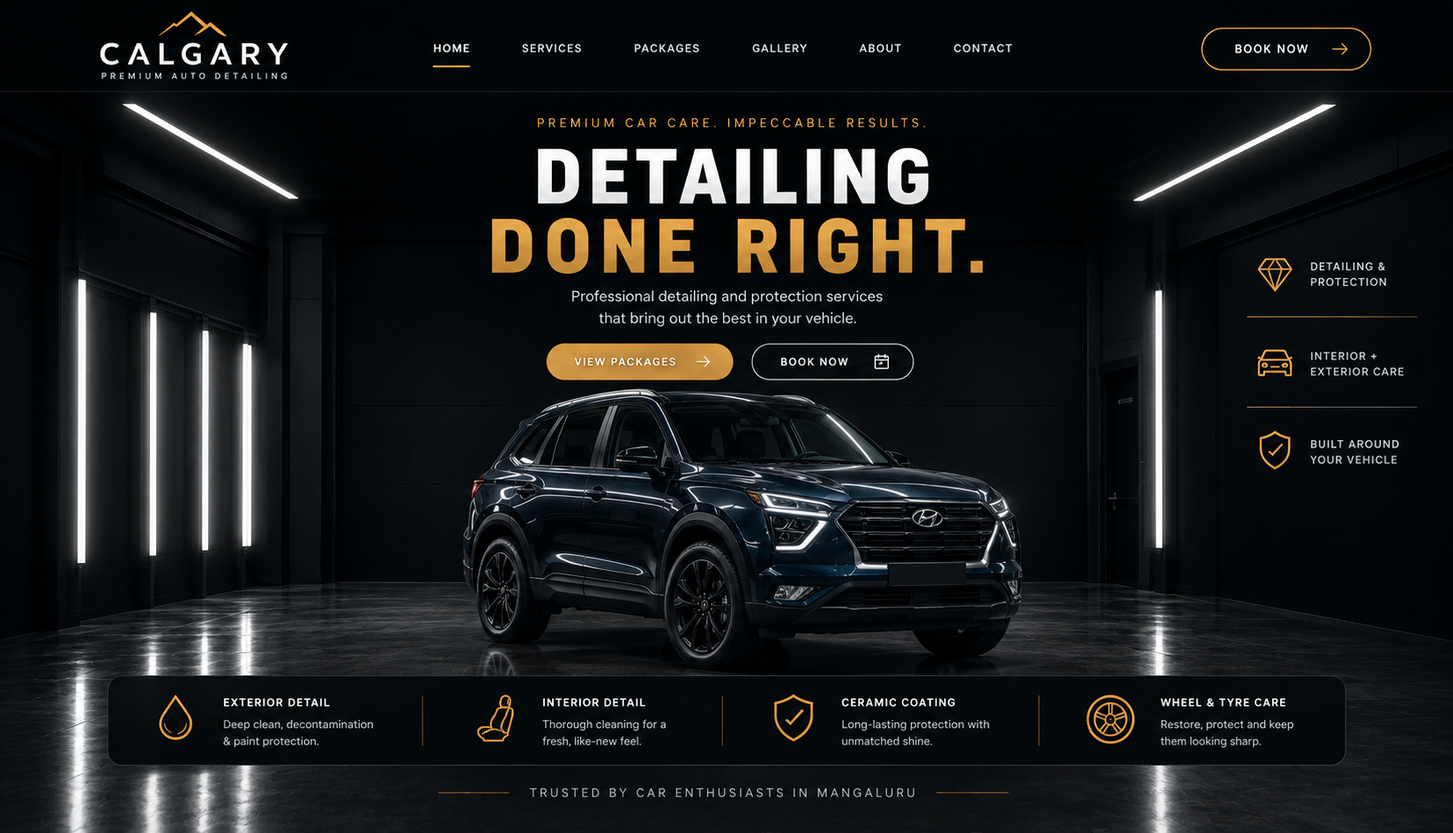
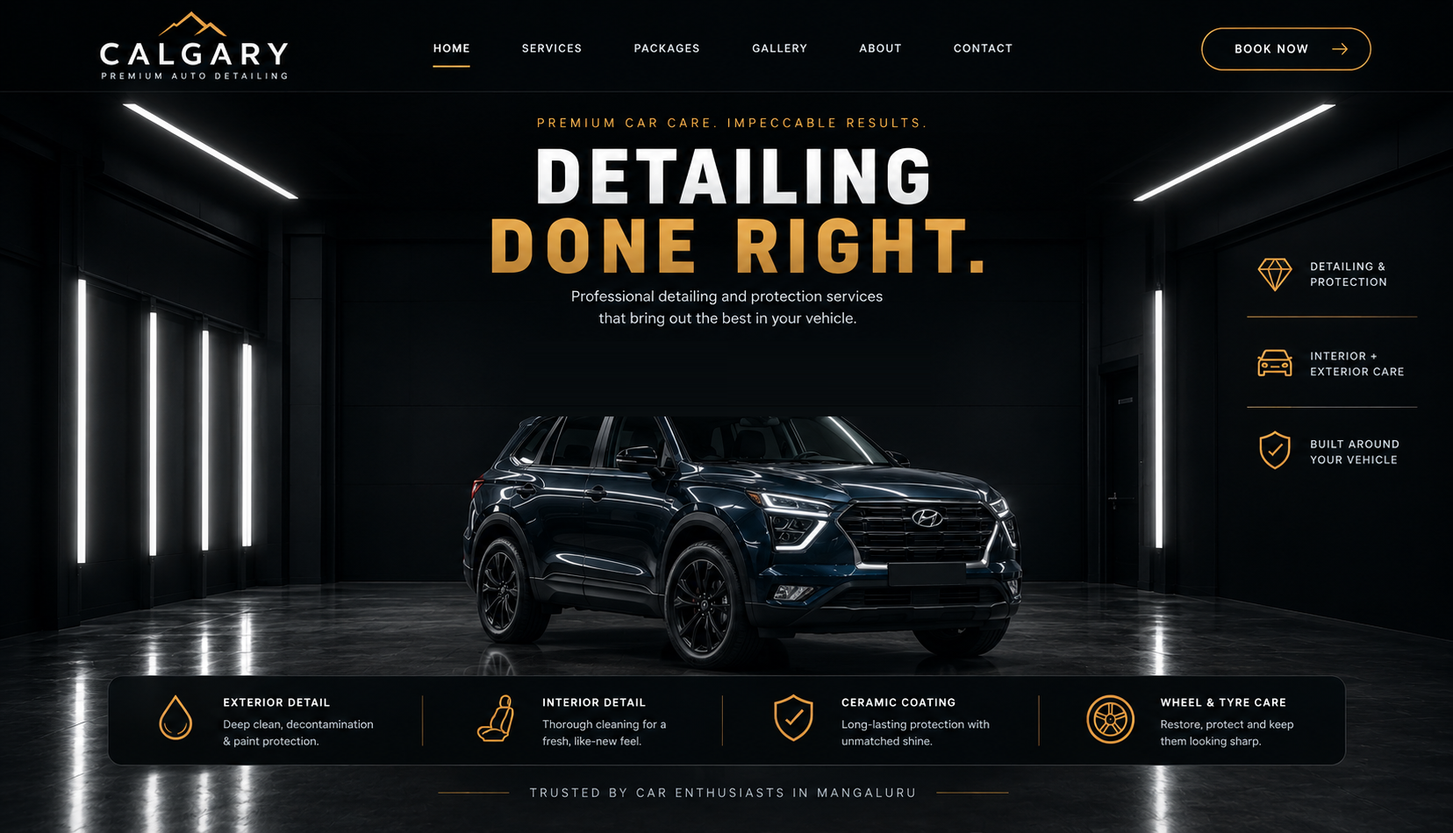
Update Calgary website

Changed region(s): [[0.3696, 0.3968, 0.6159, 0.5189]]

diff --git a/src/components/HeroSection.tsx b/src/components/HeroSection.tsx
@@ -1,5 +1,5 @@
 import React from 'react';
-import { Clock } from 'lucide-react';
+import { ArrowRight, CalendarDays, Clock } from 'lucide-react';
 import { getStoredInquiries } from '../services/inquiryAutomation';
 
 interface HeroSectionProps {
@@ -45,9 +45,8 @@ export const HeroSection: React.FC<HeroSectionProps> = ({ onOpenBooking, onOpenT
     >
       {/* =========================================================================
           HERO STUDIO: PIXEL-PERFECT REPLICA MATCHING REFERENCE IMAGE
-          Rendered cleanly across all screen sizes without any artificial text layer on top.
-          Includes fully functional interactive hotspots, hover feedback, accessibility,
-          and direct integrations with booking flows.
+          Includes image-aligned interactive hotspots and native CTA buttons.
+          Keyboard focus stays visible without mouse hover outlines or shadow effects.
          ========================================================================= */}
       <div className="relative w-full max-w-[1656px] mx-auto aspect-[1656/950] overflow-hidden">
         {/* Reference Visual Design */}
@@ -86,7 +85,7 @@ export const HeroSection: React.FC<HeroSectionProps> = ({ onOpenBooking, onOpenT
           type="button"
           onClick={scrollToTop}
           aria-label="Calgary Premium Auto Detailing Home"
-          className="absolute left-[6.04%] top-[1.8%] w-[14.5%] h-[5.6%] cursor-pointer rounded-lg hover:bg-white/5 transition-colors focus:outline-none focus:ring-1 focus:ring-[#C59B4E]"
+          className="absolute left-[6.04%] top-[1.8%] w-[14.5%] h-[5.6%] cursor-pointer rounded-lg hover:bg-white/5 transition-colors focus-visible:outline-none focus-visible:ring-1 focus-visible:ring-[#C59B4E]"
           title="Calgary Premium Auto Detailing"
         />
 
@@ -95,42 +94,42 @@ export const HeroSection: React.FC<HeroSectionProps> = ({ onOpenBooking, onOpenT
           type="button"
           onClick={scrollToTop}
           aria-label="Navigate to Home"
-          className="absolute left-[29.59%] top-[3.2%] w-[3.5%] h-[3.8%] cursor-pointer rounded hover:bg-white/10 transition-colors focus:outline-none"
+          className="absolute left-[29.59%] top-[3.2%] w-[3.5%] h-[3.8%] cursor-pointer rounded focus-visible:outline-none focus-visible:ring-1 focus-visible:ring-[#C59B4E]"
           title="Home"
         />
         <button
           type="button"
           onClick={() => scrollTo('services')}
           aria-label="Navigate to Services"
-          className="absolute left-[35.0%] top-[3.2%] w-[5.0%] h-[3.8%] cursor-pointer rounded hover:bg-white/10 transition-colors focus:outline-none"
+          className="absolute left-[35.0%] top-[3.2%] w-[5.0%] h-[3.8%] cursor-pointer rounded focus-visible:outline-none focus-visible:ring-1 focus-visible:ring-[#C59B4E]"
           title="Services"
         />
         <button
           type="button"
           onClick={() => scrollTo('services')}
           aria-label="Navigate to Packages"
-          className="absolute left-[42.5%] top-[3.2%] w-[5.5%] h-[3.8%] cursor-pointer rounded hover:bg-white/10 transition-colors focus:outline-none"
+          className="absolute left-[42.5%] top-[3.2%] w-[5.5%] h-[3.8%] cursor-pointer rounded focus-visible:outline-none focus-visible:ring-1 focus-visible:ring-[#C59B4E]"
           title="Packages"
         />
         <button
           type="button"
           onClick={() => scrollTo('gallery')}
           aria-label="Navigate to Gallery"
-          className="absolute left-[50.8%] top-[3.2%] w-[4.8%] h-[3.8%] cursor-pointer rounded hover:bg-white/10 transition-colors focus:outline-none"
+          className="absolute left-[50.8%] top-[3.2%] w-[4.8%] h-[3.8%] cursor-pointer rounded focus-visible:outline-none focus-visible:ring-1 focus-visible:ring-[#C59B4E]"
           title="Gallery"
         />
         <button
           type="button"
           onClick={() => scrollTo('about')}
           aria-label="Navigate to About"
-          className="absolute left-[58.0%] top-[3.2%] w-[4.0%] h-[3.8%] cursor-pointer rounded hover:bg-white/10 transition-colors focus:outline-none"
+          className="absolute left-[58.0%] top-[3.2%] w-[4.0%] h-[3.8%] cursor-pointer rounded focus-visible:outline-none focus-visible:ring-1 focus-visible:ring-[#C59B4E]"
           title="About"
         />
         <button
           type="button"
           onClick={() => scrollTo('contact')}
           aria-label="Navigate to Contact"
-          className="absolute left-[64.0%] top-[3.2%] w-[5.0%] h-[3.8%] cursor-pointer rounded hover:bg-white/10 transition-colors focus:outline-none"
+          className="absolute left-[64.0%] top-[3.2%] w-[5.0%] h-[3.8%] cursor-pointer rounded focus-visible:outline-none focus-visible:ring-1 focus-visible:ring-[#C59B4E]"
           title="Contact"
         />
 
@@ -139,7 +138,7 @@ export const HeroSection: React.FC<HeroSectionProps> = ({ onOpenBooking, onOpenT
           type="button"
           onClick={() => onOpenBooking()}
           aria-label="Book Detailing Appointment"
-          className="absolute left-[82.6%] top-[3.2%] w-[11.6%] h-[5.2%] cursor-pointer rounded-full border border-transparent hover:border-[#C59B4E] hover:bg-[#C59B4E]/15 hover:shadow-[0_0_20px_rgba(197,155,78,0.4)] active:scale-95 transition-all duration-200 focus:outline-none focus:ring-2 focus:ring-[#C59B4E]"
+          className="absolute left-[82.6%] top-[3.2%] w-[11.6%] h-[5.2%] cursor-pointer rounded-full hover:bg-[#C59B4E]/10 active:scale-95 transition-colors duration-200 focus-visible:outline-none focus-visible:ring-2 focus-visible:ring-[#C59B4E]"
           title="Book Your Detail"
         />
 
@@ -149,7 +148,7 @@ export const HeroSection: React.FC<HeroSectionProps> = ({ onOpenBooking, onOpenT
             <button
               type="button"
               onClick={onOpenTracker}
-              className="inline-flex items-center gap-1.5 px-3 py-1 rounded-full border border-emerald-500/40 bg-[#0A0C10]/90 backdrop-blur-md text-emerald-400 text-[11px] font-semibold uppercase tracking-wider hover:bg-emerald-500/20 transition-all cursor-pointer shadow-lg"
+              className="inline-flex items-center gap-1.5 px-3 py-1 rounded-full border border-emerald-500/40 bg-[#0A0C10]/90 backdrop-blur-md text-emerald-400 text-[11px] font-semibold uppercase tracking-wider hover:bg-emerald-500/20 transition-all cursor-pointer"
               title="View your saved inquiries"
             >
               <Clock className="w-3 h-3" />
@@ -163,25 +162,29 @@ export const HeroSection: React.FC<HeroSectionProps> = ({ onOpenBooking, onOpenT
           type="button"
           onClick={() => scrollTo('services')}
           aria-label="View Detailing Packages"
-          className="absolute left-[37.4%] top-[43.1%] w-[13.2%] h-[5.2%] cursor-pointer rounded-full hover:shadow-[0_0_25px_rgba(215,154,59,0.65)] hover:brightness-110 active:scale-95 transition-all duration-200 focus:outline-none focus:ring-2 focus:ring-amber-400"
-          title="View Packages"
-        />
+          className="absolute left-[37.4%] top-[43.1%] w-[13.2%] h-[5.2%] inline-flex items-center justify-center gap-2 rounded-full bg-gradient-to-b from-[#E4B04A] via-[#C9862B] to-[#E6B34E] text-white text-[9px] sm:text-[10px] font-semibold uppercase tracking-[0.12em] hover:brightness-105 transition-[filter] duration-200 cursor-pointer focus-visible:outline-none focus-visible:ring-1 focus-visible:ring-amber-300"
+        >
+          <span>View Packages</span>
+          <ArrowRight className="w-3 h-3" aria-hidden="true" />
+        </button>
 
         {/* 5. Center Dark Button: "BOOK NOW [calendar]" */}
         <button
           type="button"
           onClick={() => onOpenBooking()}
           aria-label="Book Now Appointment"
-          className="absolute left-[51.4%] top-[43.1%] w-[11.5%] h-[5.2%] cursor-pointer rounded-full border border-transparent hover:border-white/50 hover:bg-white/10 hover:shadow-[0_0_20px_rgba(255,255,255,0.3)] active:scale-95 transition-all duration-200 focus:outline-none focus:ring-2 focus:ring-white"
-          title="Book Now"
-        />
+          className="absolute left-[51.4%] top-[43.1%] w-[11.5%] h-[5.2%] inline-flex items-center justify-center gap-2 rounded-full bg-[#111316] text-white text-[9px] sm:text-[10px] font-semibold uppercase tracking-[0.12em] hover:brightness-110 transition-[filter] duration-200 cursor-pointer focus-visible:outline-none focus-visible:ring-1 focus-visible:ring-slate-300"
+        >
+          <span>Book Now</span>
+          <CalendarDays className="w-3 h-3" aria-hidden="true" />
+        </button>
 
         {/* 6. Right Column Feature 1: "DETAILING & PROTECTION" */}
         <button
           type="button"
           onClick={() => onOpenBooking('Detailing & Protection')}
           aria-label="Explore Detailing & Protection"
-          className="absolute left-[84.8%] top-[29.8%] w-[12.0%] h-[7.8%] cursor-pointer rounded-xl hover:bg-white/5 hover:border hover:border-[#C59B4E]/30 transition-all duration-200 text-left p-2 focus:outline-none"
+          className="absolute left-[84.8%] top-[29.8%] w-[12.0%] h-[7.8%] cursor-pointer rounded-xl text-left p-2 focus-visible:outline-none focus-visible:ring-1 focus-visible:ring-[#C59B4E]"
           title="Detailing & Protection"
         />
 
@@ -190,7 +193,7 @@ export const HeroSection: React.FC<HeroSectionProps> = ({ onOpenBooking, onOpenT
           type="button"
           onClick={() => onOpenBooking('Interior & Exterior Care')}
           aria-label="Explore Interior and Exterior Care"
-          className="absolute left-[84.8%] top-[40.8%] w-[12.0%] h-[7.8%] cursor-pointer rounded-xl hover:bg-white/5 hover:border hover:border-[#C59B4E]/30 transition-all duration-200 text-left p-2 focus:outline-none"
+          className="absolute left-[84.8%] top-[40.8%] w-[12.0%] h-[7.8%] cursor-pointer rounded-xl text-left p-2 focus-visible:outline-none focus-visible:ring-1 focus-visible:ring-[#C59B4E]"
           title="Interior + Exterior Care"
         />
 
@@ -199,7 +202,7 @@ export const HeroSection: React.FC<HeroSectionProps> = ({ onOpenBooking, onOpenT
           type="button"
           onClick={() => onOpenBooking('Bespoke Care')}
           aria-label="Explore Bespoke Vehicle Detailing"
-          className="absolute left-[84.8%] top-[51.8%] w-[12.0%] h-[7.8%] cursor-pointer rounded-xl hover:bg-white/5 hover:border hover:border-[#C59B4E]/30 transition-all duration-200 text-left p-2 focus:outline-none"
+          className="absolute left-[84.8%] top-[51.8%] w-[12.0%] h-[7.8%] cursor-pointer rounded-xl text-left p-2 focus-visible:outline-none focus-visible:ring-1 focus-visible:ring-[#C59B4E]"
           title="Built Around Your Vehicle"
         />
 
@@ -209,7 +212,7 @@ export const HeroSection: React.FC<HeroSectionProps> = ({ onOpenBooking, onOpenT
           type="button"
           onClick={() => onOpenBooking('Exterior Detailing')}
           aria-label="Book Exterior Detail"
-          className="absolute left-[7.0%] top-[84.8%] w-[21.5%] h-[10.8%] cursor-pointer rounded-2xl hover:bg-white/5 hover:shadow-[0_0_20px_rgba(197,155,78,0.25)] transition-all duration-200 focus:outline-none"
+          className="absolute left-[7.0%] top-[84.8%] w-[21.5%] h-[10.8%] cursor-pointer rounded-2xl hover:bg-white/5 transition-colors duration-200 focus-visible:outline-none focus-visible:ring-2 focus-visible:ring-[#C59B4E]"
           title="Exterior Detail: Deep clean, decontamination & paint protection"
         />
 
@@ -218,7 +221,7 @@ export const HeroSection: React.FC<HeroSectionProps> = ({ onOpenBooking, onOpenT
           type="button"
           onClick={() => onOpenBooking('Interior Detailing')}
           aria-label="Book Interior Detail"
-          className="absolute left-[28.7%] top-[84.8%] w-[21.5%] h-[10.8%] cursor-pointer rounded-2xl hover:bg-white/5 hover:shadow-[0_0_20px_rgba(197,155,78,0.25)] transition-all duration-200 focus:outline-none"
+          className="absolute left-[28.7%] top-[84.8%] w-[21.5%] h-[10.8%] cursor-pointer rounded-2xl hover:bg-white/5 transition-colors duration-200 focus-visible:outline-none focus-visible:ring-2 focus-visible:ring-[#C59B4E]"
           title="Interior Detail: Thorough cleaning for a fresh, like-new feel"
         />
 
@@ -227,7 +230,7 @@ export const HeroSection: React.FC<HeroSectionProps> = ({ onOpenBooking, onOpenT
           type="button"
           onClick={() => onOpenBooking('Ceramic Coating')}
           aria-label="Book Ceramic Coating"
-          className="absolute left-[50.2%] top-[84.8%] w-[21.5%] h-[10.8%] cursor-pointer rounded-2xl hover:bg-white/5 hover:shadow-[0_0_20px_rgba(197,155,78,0.25)] transition-all duration-200 focus:outline-none"
+          className="absolute left-[50.2%] top-[84.8%] w-[21.5%] h-[10.8%] cursor-pointer rounded-2xl hover:bg-white/5 transition-colors duration-200 focus-visible:outline-none focus-visible:ring-2 focus-visible:ring-[#C59B4E]"
           title="Ceramic Coating: Long-lasting protection with unmatched shine"
         />
 
@@ -236,7 +239,7 @@ export const HeroSection: React.FC<HeroSectionProps> = ({ onOpenBooking, onOpenT
           type="button"
           onClick={() => onOpenBooking('Wheel & Tyre Care')}
           aria-label="Book Wheel and Tyre Care"
-          className="absolute left-[71.6%] top-[84.8%] w-[21.5%] h-[10.8%] cursor-pointer rounded-2xl hover:bg-white/5 hover:shadow-[0_0_20px_rgba(197,155,78,0.25)] transition-all duration-200 focus:outline-none"
+          className="absolute left-[71.6%] top-[84.8%] w-[21.5%] h-[10.8%] cursor-pointer rounded-2xl hover:bg-white/5 transition-colors duration-200 focus-visible:outline-none focus-visible:ring-2 focus-visible:ring-[#C59B4E]"
           title="Wheel & Tyre Care: Restore, protect and keep them looking sharp"
         />
       </div>

diff --git a/src/components/Navbar.tsx b/src/components/Navbar.tsx
@@ -72,7 +72,7 @@ export const Navbar: React.FC<NavbarProps> = ({ onOpenBooking, onOpenTracker, on
           <button
             type="button"
             onClick={() => window.scrollTo({ top: 0, behavior: 'smooth' })}
-            className="flex flex-col items-center sm:items-start text-left cursor-pointer group bg-transparent border-none p-0 focus:outline-none"
+            className="flex flex-col items-center sm:items-start text-left cursor-pointer group bg-transparent border-none p-0 focus-visible:outline-none focus-visible:ring-2 focus-visible:ring-[#D7E2EA]"
             aria-label="Calgary Premium Auto Detailing Homepage"
           >
             {/* Elegant Gold Mountain Outline Icon matching Reference */}
@@ -176,7 +176,7 @@ export const Navbar: React.FC<NavbarProps> = ({ onOpenBooking, onOpenTracker, on
             <button
               type="button"
               onClick={onOpenBooking}
-              className="inline-flex items-center gap-2 px-5 sm:px-6 py-2 rounded-full border border-[#C59B4E] hover:border-[#E2AC4B] hover:bg-[#C59B4E]/10 active:scale-95 text-white font-semibold text-xs uppercase tracking-widest transition-all duration-200 cursor-pointer shadow-md"
+              className="inline-flex items-center gap-2 px-5 sm:px-6 py-2 rounded-full border border-[#C59B4E] hover:border-[#E2AC4B] hover:bg-[#C59B4E]/10 active:scale-95 text-white font-semibold text-xs uppercase tracking-widest transition-all duration-200 cursor-pointer"
             >
               <span>BOOK NOW</span>
               <ArrowRight className="w-3.5 h-3.5 text-[#C59B4E] stroke-[2.2]" />
@@ -205,7 +205,7 @@ export const Navbar: React.FC<NavbarProps> = ({ onOpenBooking, onOpenTracker, on
             <button
               type="button"
               onClick={() => setMobileMenuOpen(!mobileMenuOpen)}
-              className="p-2 rounded-xl bg-white/5 border border-white/10 text-white focus:outline-none cursor-pointer"
+              className="p-2 rounded-xl bg-white/5 border border-white/10 text-white focus-visible:outline-none focus-visible:ring-2 focus-visible:ring-[#D7E2EA] cursor-pointer"
               aria-label="Toggle navigation menu"
               aria-expanded={mobileMenuOpen}
             >
@@ -260,7 +260,7 @@ export const Navbar: React.FC<NavbarProps> = ({ onOpenBooking, onOpenTracker, on
                 setMobileMenuOpen(false);
                 onOpenBooking();
               }}
-              className="w-full py-3.5 rounded-full bg-[#D7E2EA] text-[#0C0C0C] font-bold text-xs uppercase tracking-widest text-center shadow-lg"
+              className="w-full py-3.5 rounded-full bg-[#D7E2EA] text-[#0C0C0C] font-bold text-xs uppercase tracking-widest text-center"
             >
               Book Detailing Enquiry
             </button>

diff --git a/src/components/ServicesSection.tsx b/src/components/ServicesSection.tsx
@@ -104,7 +104,7 @@ export const ServicesSection: React.FC<ServicesSectionProps> = ({ onSelectServic
             onClick={() => setActiveTab('all')}
             className={`px-4 py-2 rounded-full text-xs uppercase tracking-wider font-semibold transition-all cursor-pointer ${
               activeTab === 'all'
-                ? 'bg-[#0C0C0C] text-white shadow-md'
+                ? 'bg-[#0C0C0C] text-white'
                 : 'bg-black/5 text-slate-700 hover:bg-black/10'
             }`}
           >
@@ -118,7 +118,7 @@ export const ServicesSection: React.FC<ServicesSectionProps> = ({ onSelectServic
               onClick={() => setActiveTab(cat.id)}
               className={`px-4 py-2 rounded-full text-xs uppercase tracking-wider font-semibold transition-all cursor-pointer ${
                 activeTab === cat.id
-                  ? 'bg-[#0C0C0C] text-white shadow-md'
+                  ? 'bg-[#0C0C0C] text-white'
                   : 'bg-black/5 text-slate-700 hover:bg-black/10'
               }`}
             >
@@ -243,7 +243,7 @@ export const ServicesSection: React.FC<ServicesSectionProps> = ({ onSelectServic
                     <button
                       type="button"
                       onClick={() => onSelectService?.(service.name)}
-                      className="inline-flex items-center gap-1.5 px-5 py-2.5 rounded-full bg-[#0C0C0C] hover:bg-black text-white text-xs uppercase tracking-widest font-semibold transition-all cursor-pointer shadow-md active:scale-95 whitespace-nowrap"
+                      className="inline-flex items-center gap-1.5 px-5 py-2.5 rounded-full bg-[#0C0C0C] hover:bg-black text-white text-xs uppercase tracking-widest font-semibold transition-all cursor-pointer active:scale-95 whitespace-nowrap"
                     >
                       <span>Inquire Now</span>
                       <ArrowUpRight className="w-4 h-4 transition-transform group-hover:translate-x-0.5 group-hover:-translate-y-0.5" />
@@ -272,7 +272,7 @@ export const ServicesSection: React.FC<ServicesSectionProps> = ({ onSelectServic
           <button
             type="button"
             onClick={() => onSelectService?.('Complimentary Surface Inspection & Custom Quote')}
-            className="px-6 py-3 rounded-full bg-[#D7E2EA] hover:bg-white text-[#0C0C0C] font-bold text-xs uppercase tracking-widest transition-all cursor-pointer shrink-0 shadow-md active:scale-95"
+            className="px-6 py-3 rounded-full bg-[#D7E2EA] hover:bg-white text-[#0C0C0C] font-bold text-xs uppercase tracking-widest transition-all cursor-pointer shrink-0 active:scale-95"
           >
             Book Free Studio Audit
           </button>

diff --git a/src/components/ContactModal.tsx b/src/components/ContactModal.tsx
@@ -372,7 +372,7 @@ export const ContactModal: React.FC<ContactModalProps> = ({
                             onClick={() => setPreferredDropOff(opt)}
                             className={`p-3.5 rounded-xl border text-left transition-all cursor-pointer flex items-center justify-between text-xs ${
                               isSelected
-                                ? 'bg-[#181B24] border-emerald-500/70 text-white font-medium shadow-md'
+                                ? 'bg-[#181B24] border-emerald-500/70 text-white font-medium'
                                 : 'bg-[#0A0B0E] border-[#272B35] text-slate-400 hover:text-white'
                             }`}
                           >
@@ -463,7 +463,7 @@ export const ContactModal: React.FC<ContactModalProps> = ({
                   <div className="pt-3">
                     <button
                       type="submit"
-                      className="w-full inline-flex items-center justify-center gap-2 px-8 py-3.5 rounded-full bg-emerald-600 hover:bg-emerald-500 text-white text-xs sm:text-sm uppercase tracking-widest font-semibold transition-all duration-200 cursor-pointer shadow-lg active:scale-98"
+                      className="w-full inline-flex items-center justify-center gap-2 px-8 py-3.5 rounded-full bg-emerald-600 hover:bg-emerald-500 text-white text-xs sm:text-sm uppercase tracking-widest font-semibold transition-all duration-200 cursor-pointer active:scale-98"
                     >
                       <span>CONTINUE TO REVIEW</span>
                       <ChevronRight className="w-4 h-4" />
@@ -561,7 +561,7 @@ export const ContactModal: React.FC<ContactModalProps> = ({
                     <button
                       type="button"
                       onClick={handleConfirmAndLaunchWhatsApp}
-                      className="w-full sm:flex-1 inline-flex items-center justify-center gap-2 px-6 py-3.5 rounded-full bg-emerald-600 hover:bg-emerald-500 text-white text-xs uppercase tracking-widest font-semibold transition-all duration-200 cursor-pointer shadow-lg active:scale-95"
+                      className="w-full sm:flex-1 inline-flex items-center justify-center gap-2 px-6 py-3.5 rounded-full bg-emerald-600 hover:bg-emerald-500 text-white text-xs uppercase tracking-widest font-semibold transition-all duration-200 cursor-pointer active:scale-95"
                     >
                       <MessageSquare className="w-4 h-4" />
                       <span>SEND REQUEST VIA WHATSAPP</span>

diff --git a/src/components/InquiryTrackerModal.tsx b/src/components/InquiryTrackerModal.tsx
@@ -166,7 +166,7 @@ export const InquiryTrackerModal: React.FC<InquiryTrackerModalProps> = ({
                       onClose();
                       onOpenNewBooking();
                     }}
-                    className="inline-flex items-center gap-2 px-6 py-3 rounded-full bg-[#D7E2EA] hover:bg-white text-[#0C0C0C] font-semibold text-xs uppercase tracking-widest transition-all cursor-pointer shadow-md"
+                    className="inline-flex items-center gap-2 px-6 py-3 rounded-full bg-[#D7E2EA] hover:bg-white text-[#0C0C0C] font-semibold text-xs uppercase tracking-widest transition-all cursor-pointer"
                   >
                     <MessageSquare className="w-4 h-4" />
                     <span>Start New Detailing Inquiry</span>
@@ -191,7 +191,7 @@ export const InquiryTrackerModal: React.FC<InquiryTrackerModalProps> = ({
                         onClick={() => setSelectedInquiry(inq)}
                         className={`w-full text-left p-3.5 rounded-2xl transition-all cursor-pointer border ${
                           isSelected
-                            ? 'bg-[#181B22] border-[#BBCCD7]/40 text-white shadow-md'
+                            ? 'bg-[#181B22] border-[#BBCCD7]/40 text-white'
                             : 'bg-[#121418] border-white/5 hover:border-white/15 text-slate-300'
                         }`}
                       >
@@ -294,7 +294,7 @@ export const InquiryTrackerModal: React.FC<InquiryTrackerModalProps> = ({
                       <button
                         type="button"
                         onClick={() => handleLaunchWhatsApp(selectedInquiry)}
-                        className="inline-flex items-center gap-2 px-6 py-3 rounded-full bg-emerald-600 hover:bg-emerald-500 text-white text-xs uppercase tracking-widest font-semibold transition-all cursor-pointer shadow-lg active:scale-95"
+                        className="inline-flex items-center gap-2 px-6 py-3 rounded-full bg-emerald-600 hover:bg-emerald-500 text-white text-xs uppercase tracking-widest font-semibold transition-all cursor-pointer active:scale-95"
                       >
                         <MessageSquare className="w-4 h-4" />
                         <span>Open In WhatsApp</span>

diff --git a/src/components/ContactButton.tsx b/src/components/ContactButton.tsx
@@ -19,12 +19,8 @@ export const ContactButton: React.FC<ContactButtonProps> = ({
       onClick={onClick}
       style={{
         background: 'linear-gradient(135deg, #14161C 0%, #2C3340 45%, #606C80 80%, #B8C5D6 100%)',
-        boxShadow:
-          '0px 4px 16px rgba(0, 0, 0, 0.6), inset 0px 1px 2px rgba(255, 255, 255, 0.4), inset 0px -2px 6px rgba(0, 0, 0, 0.5)',
-        outline: '2px solid rgba(215, 226, 234, 0.9)',
-        outlineOffset: '-3px',
       }}
-      className={`rounded-full text-white font-medium uppercase tracking-widest px-8 py-3 sm:px-10 sm:py-3.5 md:px-12 md:py-4 text-xs sm:text-sm md:text-base transition-all duration-200 hover:scale-105 active:scale-95 hover:brightness-110 cursor-pointer inline-flex items-center justify-center select-none whitespace-nowrap ${className}`}
+      className={`rounded-full text-white font-medium uppercase tracking-widest px-8 py-3 sm:px-10 sm:py-3.5 md:px-12 md:py-4 text-xs sm:text-sm md:text-base transition-all duration-200 hover:scale-105 active:scale-95 hover:brightness-110 focus-visible:outline-none focus-visible:ring-2 focus-visible:ring-[#D7E2EA] cursor-pointer inline-flex items-center justify-center select-none whitespace-nowrap ${className}`}
     >
       {label}
     </button>

diff --git a/src/components/ContactSection.tsx b/src/components/ContactSection.tsx
@@ -339,7 +339,7 @@ export const ContactSection: React.FC<ContactSectionProps> = ({
               <button
                 type="button"
                 onClick={handleDirectWhatsApp}
-                className="w-full sm:w-auto inline-flex items-center justify-center gap-2 px-8 py-3.5 rounded-full bg-emerald-600 hover:bg-emerald-500 text-white text-xs uppercase tracking-widest font-semibold transition-all duration-200 cursor-pointer shadow-lg active:scale-95 whitespace-nowrap"
+                className="w-full sm:w-auto inline-flex items-center justify-center gap-2 px-8 py-3.5 rounded-full bg-emerald-600 hover:bg-emerald-500 text-white text-xs uppercase tracking-widest font-semibold transition-all duration-200 cursor-pointer active:scale-95 whitespace-nowrap"
               >
                 <MessageSquare className="w-4 h-4" />
                 <span>REQUEST APPOINTMENT ON WHATSAPP</span>

diff --git a/src/components/GallerySection.tsx b/src/components/GallerySection.tsx
@@ -141,7 +141,7 @@ export const GallerySection: React.FC = () => {
                     href={getWhatsAppUrl(activeItem.category)}
                     target="_blank"
                     rel="noopener noreferrer"
-                    className="inline-flex items-center justify-center gap-2 px-5 py-3 rounded-full bg-[#25D366] text-black font-bold text-xs uppercase tracking-wider hover:bg-[#20ba5a] transition-colors shadow-lg"
+                    className="inline-flex items-center justify-center gap-2 px-5 py-3 rounded-full bg-[#25D366] text-black font-bold text-xs uppercase tracking-wider hover:bg-[#20ba5a] transition-colors"
                   >
                     <MessageSquare className="w-4 h-4 fill-black" />
                     <span>Enquire on WhatsApp</span>

diff --git a/src/components/TestimonialsSection.tsx b/src/components/TestimonialsSection.tsx
@@ -202,7 +202,7 @@ export const TestimonialsSection: React.FC<TestimonialsSectionProps> = ({ onOpen
               <button
                 type="button"
                 onClick={onOpenBooking}
-                className="px-6 py-3 rounded-full bg-[#D7E2EA] hover:bg-white text-[#0C0C0C] font-semibold text-xs uppercase tracking-wider transition-all duration-200 cursor-pointer shadow-md shrink-0 active:scale-95"
+                className="px-6 py-3 rounded-full bg-[#D7E2EA] hover:bg-white text-[#0C0C0C] font-semibold text-xs uppercase tracking-wider transition-all duration-200 cursor-pointer shrink-0 active:scale-95"
               >
                 Schedule Vehicle Assessment
               </button>

diff --git a/src/components/legal/StoragePreferencesModal.tsx b/src/components/legal/StoragePreferencesModal.tsx
@@ -275,7 +275,7 @@ export const StoragePreferencesModal: React.FC<StoragePreferencesModalProps> = (
               <button
                 type="button"
                 onClick={handleSavePreferences}
-                className="w-full sm:w-auto px-6 py-2.5 rounded-full bg-[#D7E2EA] hover:bg-white text-[#0C0C0C] text-xs font-bold uppercase tracking-wider transition-all cursor-pointer shadow-md"
+                className="w-full sm:w-auto px-6 py-2.5 rounded-full bg-[#D7E2EA] hover:bg-white text-[#0C0C0C] text-xs font-bold uppercase tracking-wider transition-all cursor-pointer"
               >
                 Save Preferences
               </button>

diff --git a/src/components/FaqSection.tsx b/src/components/FaqSection.tsx
@@ -118,7 +118,7 @@ export const FaqSection: React.FC = () => {
                 <button
                   type="button"
                   onClick={() => toggleFaq(index)}
-                  className="w-full p-5 sm:p-6 text-left flex items-start sm:items-center justify-between gap-4 cursor-pointer focus:outline-none"
+                  className="w-full p-5 sm:p-6 text-left flex items-start sm:items-center justify-between gap-4 cursor-pointer focus-visible:outline-none focus-visible:ring-2 focus-visible:ring-inset focus-visible:ring-[#D7E2EA]"
                   aria-expanded={isOpen}
                 >
                   <div className="space-y-1">

diff --git a/src/components/ProjectsSection.tsx b/src/components/ProjectsSection.tsx
@@ -112,12 +112,13 @@ const ShowcaseCard: React.FC<ShowcaseCardProps> = ({
   return (
     <div
       ref={containerRef}
-      className="min-h-[720px] md:h-[85vh] flex items-start justify-center relative"
+      className="min-h-[760px] md:h-[85vh] flex items-start justify-center relative"
     >
       <motion.div
         style={{
           top: `calc(5.5rem + ${index * 28}px)`,
           scale,
+          zIndex: index + 1,
         }}
         className="sticky w-full max-w-6xl rounded-[40px] sm:rounded-[50px] md:rounded-[60px] border-2 border-[#D7E2EA] bg-[#0C0C0C] p-4 sm:p-6 md:p-8 shadow-2xl overflow-hidden relative"
       >
